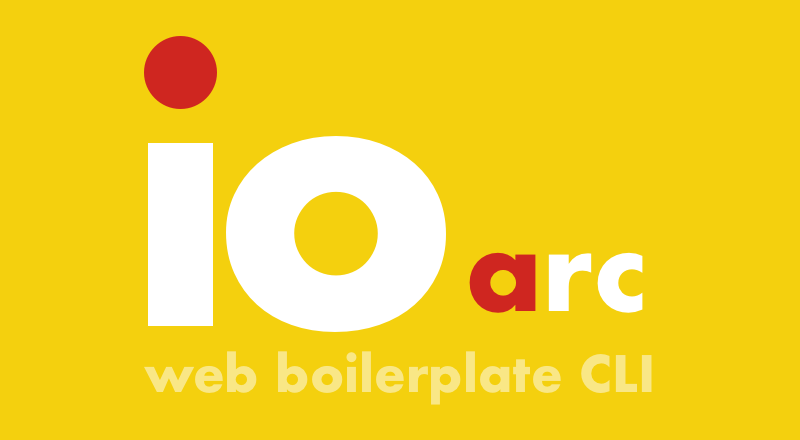
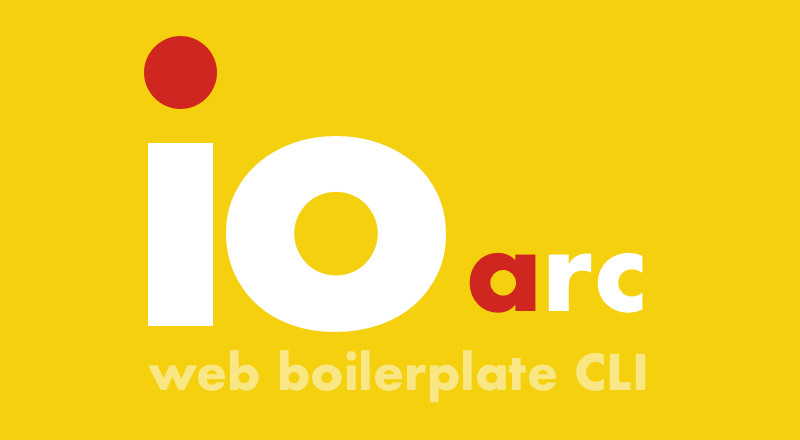
docs: updating headline

Changed region(s): [[0.1562, 0.7977, 0.8125, 0.9159]]

diff --git a/README.md b/README.md
@@ -1,4 +1,6 @@
-# io arc -web boilerplate CLI-
+# io arc
+
+It's so easy! build in 5 minutes! web boilerplate CLI.
 
 <div align="center"><img src="images/cover.png" width="800" height="440" alt="io arc -web boilerplate CLI-"></div>
 
